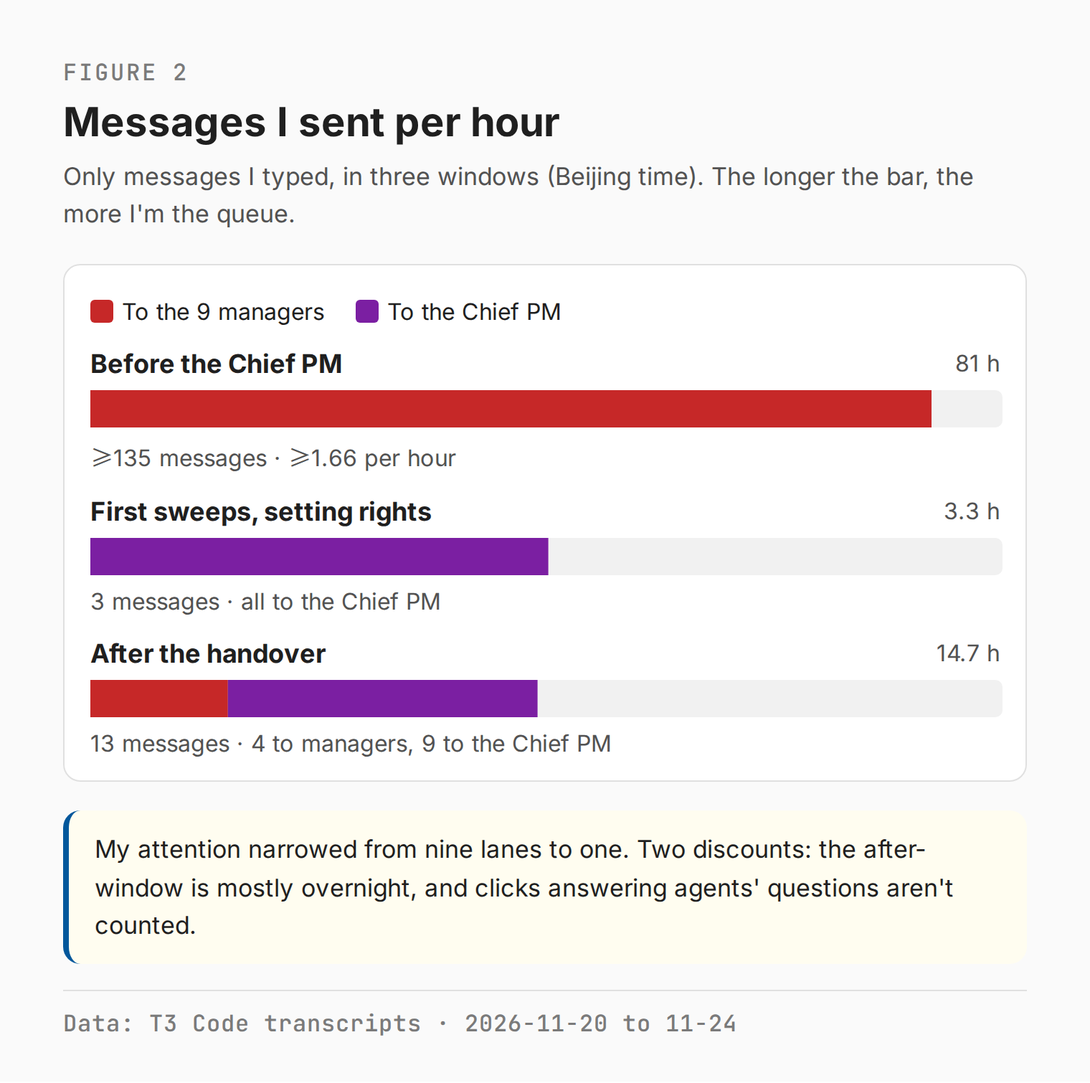
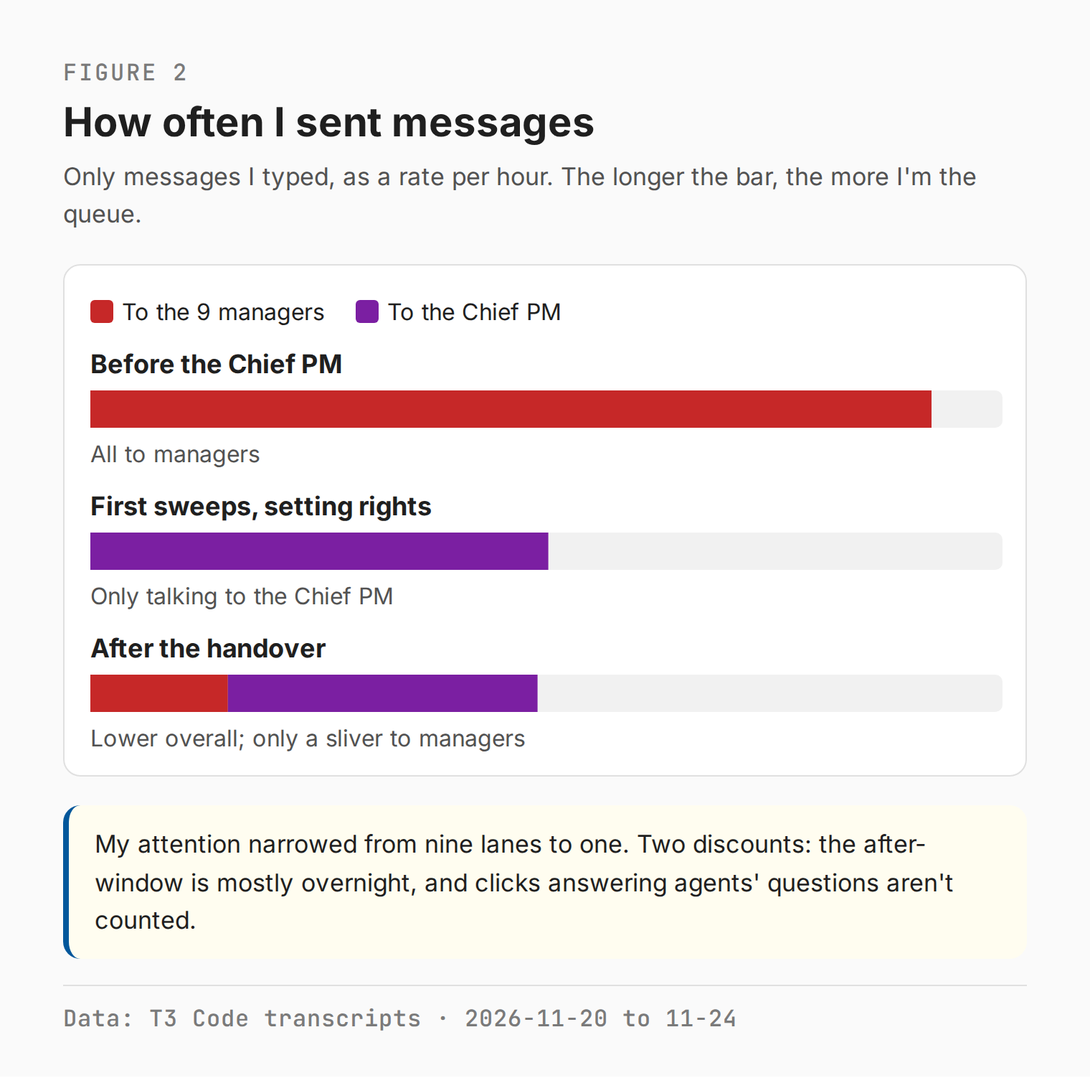
Show owner-message trend only, drop absolute counts

diff --git a/drafts/2026-11-24-managing-managers-a-chief-pm-agent-and-the-coordination-tax/figures/figure-1-topology.zh.html b/drafts/2026-11-24-managing-managers-a-chief-pm-agent-and-the-coordination-tax/figures/figure-1-topology.zh.html
@@ -21,7 +21,7 @@ svg{display:block}
 <div class="figno">图 1</div><h1>从星形到两层：日常决策交给 Chief PM</h1>
 <div class="sub">同样 9 个经理，同样是 Opus 5.5。变的是谁站在中心。</div>
 <div class="panel"><h2 style="color:var(--red)">之前：9 条辐条都通向我</h2><svg width="636" height="330" viewBox="0 0 636 330"><line x1="318.0" y1="165.0" x2="318.0" y2="37.0" stroke="#c62828" stroke-width="2.5"/><line x1="318.0" y1="165.0" x2="400.3" y2="66.9" stroke="#c62828" stroke-width="2.5"/><line x1="318.0" y1="165.0" x2="444.1" y2="142.8" stroke="#c62828" stroke-width="2.5"/><line x1="318.0" y1="165.0" x2="428.9" y2="229.0" stroke="#c62828" stroke-width="2.5"/><line x1="318.0" y1="165.0" x2="361.8" y2="285.3" stroke="#c62828" stroke-width="2.5"/><line x1="318.0" y1="165.0" x2="274.2" y2="285.3" stroke="#c62828" stroke-width="2.5"/><line x1="318.0" y1="165.0" x2="207.1" y2="229.0" stroke="#c62828" stroke-width="2.5"/><line x1="318.0" y1="165.0" x2="191.9" y2="142.8" stroke="#c62828" stroke-width="2.5"/><line x1="318.0" y1="165.0" x2="235.7" y2="66.9" stroke="#c62828" stroke-width="2.5"/><rect x="280.0" y="20.0" width="76" height="34" rx="8" fill="#e1f5fe" stroke="#01579b" stroke-width="1.5"/><text x="318.0" y="43.0" text-anchor="middle" font-size="16" fill="#01579b">博客</text><rect x="362.3" y="49.9" width="76" height="34" rx="8" fill="#e1f5fe" stroke="#01579b" stroke-width="1.5"/><text x="400.3" y="72.9" text-anchor="middle" font-size="16" fill="#01579b">AWB</text><rect x="406.1" y="125.8" width="76" height="34" rx="8" fill="#e1f5fe" stroke="#01579b" stroke-width="1.5"/><text x="444.1" y="148.8" text-anchor="middle" font-size="16" fill="#01579b">Semon</text><rect x="390.9" y="212.0" width="76" height="34" rx="8" fill="#e1f5fe" stroke="#01579b" stroke-width="1.5"/><text x="428.9" y="235.0" text-anchor="middle" font-size="16" fill="#01579b">Ostrom</text><rect x="323.8" y="268.3" width="76" height="34" rx="8" fill="#e1f5fe" stroke="#01579b" stroke-width="1.5"/><text x="361.8" y="291.3" text-anchor="middle" font-size="16" fill="#01579b">Tolmap</text><rect x="236.2" y="268.3" width="76" height="34" rx="8" fill="#e1f5fe" stroke="#01579b" stroke-width="1.5"/><text x="274.2" y="291.3" text-anchor="middle" font-size="16" fill="#01579b">Eval</text><rect x="169.1" y="212.0" width="76" height="34" rx="8" fill="#e1f5fe" stroke="#01579b" stroke-width="1.5"/><text x="207.1" y="235.0" text-anchor="middle" font-size="16" fill="#01579b">Infra</text><rect x="153.9" y="125.8" width="76" height="34" rx="8" fill="#e1f5fe" stroke="#01579b" stroke-width="1.5"/><text x="191.9" y="148.8" text-anchor="middle" font-size="16" fill="#01579b">Duhem</text><rect x="197.7" y="49.9" width="76" height="34" rx="8" fill="#e1f5fe" stroke="#01579b" stroke-width="1.5"/><text x="235.7" y="72.9" text-anchor="middle" font-size="16" fill="#01579b">Kirzner</text><circle cx="318.0" cy="165.0" r="38" fill="#ffebee" stroke="#c62828" stroke-width="2.5"/><text x="318.0" y="172.0" text-anchor="middle" font-size="19" font-weight="700" fill="#c62828">我</text></svg>
-<div class="note">11 月 20 日至 23 日 17:20，81 小时里我给经理们发了<b>至少 135 条</b>消息。</div></div>
+<div class="note">每一个要拍板的事，都等我回消息。</div></div>
 <div class="panel"><h2 style="color:var(--purple)">之后：我只管 S5，日常由 Chief PM 拍板</h2><svg width="636" height="330" viewBox="0 0 636 330"><rect x="98.0" y="6" width="440" height="56" rx="10" fill="#ffebee" stroke="#c62828" stroke-width="2"/><text x="318.0" y="30" text-anchor="middle" font-size="19" font-weight="700" fill="#c62828">我 · S5</text><text x="318.0" y="53" text-anchor="middle" font-size="16" fill="#525252">花钱、对外发声、凭据、产品方向</text><line x1="318.0" y1="62" x2="318.0" y2="98" stroke="#c62828" stroke-width="2.5"/><rect x="98.0" y="98" width="440" height="56" rx="10" fill="#f3e5f5" stroke="#7b1fa2" stroke-width="2"/><text x="318.0" y="122" text-anchor="middle" font-size="19" font-weight="700" fill="#7b1fa2">Chief PM · S3</text><text x="318.0" y="145" text-anchor="middle" font-size="16" fill="#525252">合并、发版、技术选型、巡检</text><line x1="318.0" y1="154" x2="35.3" y2="200" stroke="#7b1fa2" stroke-width="1.5"/><rect x="3.0" y="200" width="64.7" height="34" rx="7" fill="#e1f5fe" stroke="#01579b" stroke-width="1.5"/><text x="35.3" y="223" text-anchor="middle" font-size="16" fill="#01579b">博客</text><line x1="35.3" y1="234" x2="17.3" y2="262" stroke="#9e9e9e" stroke-width="1"/><circle cx="17.3" cy="268" r="6" fill="#e8f5e9" stroke="#2e7d32" stroke-width="1.2"/><line x1="35.3" y1="234" x2="35.3" y2="262" stroke="#9e9e9e" stroke-width="1"/><circle cx="35.3" cy="268" r="6" fill="#e8f5e9" stroke="#2e7d32" stroke-width="1.2"/><line x1="35.3" y1="234" x2="53.3" y2="262" stroke="#9e9e9e" stroke-width="1"/><circle cx="53.3" cy="268" r="6" fill="#e8f5e9" stroke="#2e7d32" stroke-width="1.2"/><line x1="318.0" y1="154" x2="106.0" y2="200" stroke="#7b1fa2" stroke-width="1.5"/><rect x="73.7" y="200" width="64.7" height="34" rx="7" fill="#e1f5fe" stroke="#01579b" stroke-width="1.5"/><text x="106.0" y="223" text-anchor="middle" font-size="16" fill="#01579b">AWB</text><line x1="106.0" y1="234" x2="88.0" y2="262" stroke="#9e9e9e" stroke-width="1"/><circle cx="88.0" cy="268" r="6" fill="#e8f5e9" stroke="#2e7d32" stroke-width="1.2"/><line x1="106.0" y1="234" x2="106.0" y2="262" stroke="#9e9e9e" stroke-width="1"/><circle cx="106.0" cy="268" r="6" fill="#e8f5e9" stroke="#2e7d32" stroke-width="1.2"/><line x1="106.0" y1="234" x2="124.0" y2="262" stroke="#9e9e9e" stroke-width="1"/><circle cx="124.0" cy="268" r="6" fill="#e8f5e9" stroke="#2e7d32" stroke-width="1.2"/><line x1="318.0" y1="154" x2="176.7" y2="200" stroke="#7b1fa2" stroke-width="1.5"/><rect x="144.3" y="200" width="64.7" height="34" rx="7" fill="#e1f5fe" stroke="#01579b" stroke-width="1.5"/><text x="176.7" y="223" text-anchor="middle" font-size="16" fill="#01579b">Semon</text><line x1="176.7" y1="234" x2="158.7" y2="262" stroke="#9e9e9e" stroke-width="1"/><circle cx="158.7" cy="268" r="6" fill="#e8f5e9" stroke="#2e7d32" stroke-width="1.2"/><line x1="176.7" y1="234" x2="176.7" y2="262" stroke="#9e9e9e" stroke-width="1"/><circle cx="176.7" cy="268" r="6" fill="#e8f5e9" stroke="#2e7d32" stroke-width="1.2"/><line x1="176.7" y1="234" x2="194.7" y2="262" stroke="#9e9e9e" stroke-width="1"/><circle cx="194.7" cy="268" r="6" fill="#e8f5e9" stroke="#2e7d32" stroke-width="1.2"/><line x1="318.0" y1="154" x2="247.3" y2="200" stroke="#7b1fa2" stroke-width="1.5"/><rect x="215.0" y="200" width="64.7" height="34" rx="7" fill="#e1f5fe" stroke="#01579b" stroke-width="1.5"/><text x="247.3" y="223" text-anchor="middle" font-size="16" fill="#01579b">Ostrom</text><line x1="247.3" y1="234" x2="229.3" y2="262" stroke="#9e9e9e" stroke-width="1"/><circle cx="229.3" cy="268" r="6" fill="#e8f5e9" stroke="#2e7d32" stroke-width="1.2"/><line x1="247.3" y1="234" x2="247.3" y2="262" stroke="#9e9e9e" stroke-width="1"/><circle cx="247.3" cy="268" r="6" fill="#e8f5e9" stroke="#2e7d32" stroke-width="1.2"/><line x1="247.3" y1="234" x2="265.3" y2="262" stroke="#9e9e9e" stroke-width="1"/><circle cx="265.3" cy="268" r="6" fill="#e8f5e9" stroke="#2e7d32" stroke-width="1.2"/><line x1="318.0" y1="154" x2="318.0" y2="200" stroke="#7b1fa2" stroke-width="1.5"/><rect x="285.7" y="200" width="64.7" height="34" rx="7" fill="#e1f5fe" stroke="#01579b" stroke-width="1.5"/><text x="318.0" y="223" text-anchor="middle" font-size="16" fill="#01579b">Tolmap</text><line x1="318.0" y1="234" x2="300.0" y2="262" stroke="#9e9e9e" stroke-width="1"/><circle cx="300.0" cy="268" r="6" fill="#e8f5e9" stroke="#2e7d32" stroke-width="1.2"/><line x1="318.0" y1="234" x2="318.0" y2="262" stroke="#9e9e9e" stroke-width="1"/><circle cx="318.0" cy="268" r="6" fill="#e8f5e9" stroke="#2e7d32" stroke-width="1.2"/><line x1="318.0" y1="234" x2="336.0" y2="262" stroke="#9e9e9e" stroke-width="1"/><circle cx="336.0" cy="268" r="6" fill="#e8f5e9" stroke="#2e7d32" stroke-width="1.2"/><line x1="318.0" y1="154" x2="388.7" y2="200" stroke="#7b1fa2" stroke-width="1.5"/><rect x="356.3" y="200" width="64.7" height="34" rx="7" fill="#e1f5fe" stroke="#01579b" stroke-width="1.5"/><text x="388.7" y="223" text-anchor="middle" font-size="16" fill="#01579b">Eval</text><line x1="388.7" y1="234" x2="370.7" y2="262" stroke="#9e9e9e" stroke-width="1"/><circle cx="370.7" cy="268" r="6" fill="#e8f5e9" stroke="#2e7d32" stroke-width="1.2"/><line x1="388.7" y1="234" x2="388.7" y2="262" stroke="#9e9e9e" stroke-width="1"/><circle cx="388.7" cy="268" r="6" fill="#e8f5e9" stroke="#2e7d32" stroke-width="1.2"/><line x1="388.7" y1="234" x2="406.7" y2="262" stroke="#9e9e9e" stroke-width="1"/><circle cx="406.7" cy="268" r="6" fill="#e8f5e9" stroke="#2e7d32" stroke-width="1.2"/><line x1="318.0" y1="154" x2="459.3" y2="200" stroke="#7b1fa2" stroke-width="1.5"/><rect x="427.0" y="200" width="64.7" height="34" rx="7" fill="#e1f5fe" stroke="#01579b" stroke-width="1.5"/><text x="459.3" y="223" text-anchor="middle" font-size="16" fill="#01579b">Infra</text><line x1="459.3" y1="234" x2="441.3" y2="262" stroke="#9e9e9e" stroke-width="1"/><circle cx="441.3" cy="268" r="6" fill="#e8f5e9" stroke="#2e7d32" stroke-width="1.2"/><line x1="459.3" y1="234" x2="459.3" y2="262" stroke="#9e9e9e" stroke-width="1"/><circle cx="459.3" cy="268" r="6" fill="#e8f5e9" stroke="#2e7d32" stroke-width="1.2"/><line x1="459.3" y1="234" x2="477.3" y2="262" stroke="#9e9e9e" stroke-width="1"/><circle cx="477.3" cy="268" r="6" fill="#e8f5e9" stroke="#2e7d32" stroke-width="1.2"/><line x1="318.0" y1="154" x2="530.0" y2="200" stroke="#7b1fa2" stroke-width="1.5"/><rect x="497.7" y="200" width="64.7" height="34" rx="7" fill="#e1f5fe" stroke="#01579b" stroke-width="1.5"/><text x="530.0" y="223" text-anchor="middle" font-size="16" fill="#01579b">Duhem</text><line x1="530.0" y1="234" x2="512.0" y2="262" stroke="#9e9e9e" stroke-width="1"/><circle cx="512.0" cy="268" r="6" fill="#e8f5e9" stroke="#2e7d32" stroke-width="1.2"/><line x1="530.0" y1="234" x2="530.0" y2="262" stroke="#9e9e9e" stroke-width="1"/><circle cx="530.0" cy="268" r="6" fill="#e8f5e9" stroke="#2e7d32" stroke-width="1.2"/><line x1="530.0" y1="234" x2="548.0" y2="262" stroke="#9e9e9e" stroke-width="1"/><circle cx="548.0" cy="268" r="6" fill="#e8f5e9" stroke="#2e7d32" stroke-width="1.2"/><line x1="318.0" y1="154" x2="600.7" y2="200" stroke="#7b1fa2" stroke-width="1.5"/><rect x="568.3" y="200" width="64.7" height="34" rx="7" fill="#e1f5fe" stroke="#01579b" stroke-width="1.5"/><text x="600.7" y="223" text-anchor="middle" font-size="16" fill="#01579b">Kirzner</text><line x1="600.7" y1="234" x2="582.7" y2="262" stroke="#9e9e9e" stroke-width="1"/><circle cx="582.7" cy="268" r="6" fill="#e8f5e9" stroke="#2e7d32" stroke-width="1.2"/><line x1="600.7" y1="234" x2="600.7" y2="262" stroke="#9e9e9e" stroke-width="1"/><circle cx="600.7" cy="268" r="6" fill="#e8f5e9" stroke="#2e7d32" stroke-width="1.2"/><line x1="600.7" y1="234" x2="618.7" y2="262" stroke="#9e9e9e" stroke-width="1"/><circle cx="618.7" cy="268" r="6" fill="#e8f5e9" stroke="#2e7d32" stroke-width="1.2"/><text x="318.0" y="306" text-anchor="middle" font-size="16" fill="#2e7d32">9 个经理（S1），下面挂着约 300 个 Worker 对话</text></svg>
-<div class="note">交接后的 14.7 小时里，我给 9 个经理发了 <b>4 条</b>，给 Chief PM 发了 <b>9 条</b>。</div></div>
+<div class="note">我直接找经理的次数几乎归零，剩下的消息大多发给 Chief PM。</div></div>
 <div class="foot">S1 / S3 / S5：Stafford Beer 可生存系统模型的层级 · 北京时间</div></div></body></html>

diff --git a/drafts/2026-11-24-managing-managers-a-chief-pm-agent-and-the-coordination-tax/figures/figure-1-topology.en.html b/drafts/2026-11-24-managing-managers-a-chief-pm-agent-and-the-coordination-tax/figures/figure-1-topology.en.html
@@ -21,7 +21,7 @@ svg{display:block}
 <div class="figno">FIGURE 1</div><h1>From a star to two layers</h1>
 <div class="sub">Same nine managers, same Opus 5.5. What changed is who sits at the center.</div>
 <div class="panel"><h2 style="color:var(--red)">Before: all nine spokes run to me</h2><svg width="636" height="330" viewBox="0 0 636 330"><line x1="318.0" y1="165.0" x2="318.0" y2="37.0" stroke="#c62828" stroke-width="2.5"/><line x1="318.0" y1="165.0" x2="400.3" y2="66.9" stroke="#c62828" stroke-width="2.5"/><line x1="318.0" y1="165.0" x2="444.1" y2="142.8" stroke="#c62828" stroke-width="2.5"/><line x1="318.0" y1="165.0" x2="428.9" y2="229.0" stroke="#c62828" stroke-width="2.5"/><line x1="318.0" y1="165.0" x2="361.8" y2="285.3" stroke="#c62828" stroke-width="2.5"/><line x1="318.0" y1="165.0" x2="274.2" y2="285.3" stroke="#c62828" stroke-width="2.5"/><line x1="318.0" y1="165.0" x2="207.1" y2="229.0" stroke="#c62828" stroke-width="2.5"/><line x1="318.0" y1="165.0" x2="191.9" y2="142.8" stroke="#c62828" stroke-width="2.5"/><line x1="318.0" y1="165.0" x2="235.7" y2="66.9" stroke="#c62828" stroke-width="2.5"/><rect x="280.0" y="20.0" width="76" height="34" rx="8" fill="#e1f5fe" stroke="#01579b" stroke-width="1.5"/><text x="318.0" y="43.0" text-anchor="middle" font-size="16" fill="#01579b">Blog</text><rect x="362.3" y="49.9" width="76" height="34" rx="8" fill="#e1f5fe" stroke="#01579b" stroke-width="1.5"/><text x="400.3" y="72.9" text-anchor="middle" font-size="16" fill="#01579b">AWB</text><rect x="406.1" y="125.8" width="76" height="34" rx="8" fill="#e1f5fe" stroke="#01579b" stroke-width="1.5"/><text x="444.1" y="148.8" text-anchor="middle" font-size="16" fill="#01579b">Semon</text><rect x="390.9" y="212.0" width="76" height="34" rx="8" fill="#e1f5fe" stroke="#01579b" stroke-width="1.5"/><text x="428.9" y="235.0" text-anchor="middle" font-size="16" fill="#01579b">Ostrom</text><rect x="323.8" y="268.3" width="76" height="34" rx="8" fill="#e1f5fe" stroke="#01579b" stroke-width="1.5"/><text x="361.8" y="291.3" text-anchor="middle" font-size="16" fill="#01579b">Tolmap</text><rect x="236.2" y="268.3" width="76" height="34" rx="8" fill="#e1f5fe" stroke="#01579b" stroke-width="1.5"/><text x="274.2" y="291.3" text-anchor="middle" font-size="16" fill="#01579b">Eval</text><rect x="169.1" y="212.0" width="76" height="34" rx="8" fill="#e1f5fe" stroke="#01579b" stroke-width="1.5"/><text x="207.1" y="235.0" text-anchor="middle" font-size="16" fill="#01579b">Infra</text><rect x="153.9" y="125.8" width="76" height="34" rx="8" fill="#e1f5fe" stroke="#01579b" stroke-width="1.5"/><text x="191.9" y="148.8" text-anchor="middle" font-size="16" fill="#01579b">Duhem</text><rect x="197.7" y="49.9" width="76" height="34" rx="8" fill="#e1f5fe" stroke="#01579b" stroke-width="1.5"/><text x="235.7" y="72.9" text-anchor="middle" font-size="16" fill="#01579b">Kirzner</text><circle cx="318.0" cy="165.0" r="38" fill="#ffebee" stroke="#c62828" stroke-width="2.5"/><text x="318.0" y="172.0" text-anchor="middle" font-size="19" font-weight="700" fill="#c62828">Me</text></svg>
-<div class="note">20 Nov to 23 Nov 17:20: I sent the managers <b>at least 135</b> messages in 81 hours.</div></div>
+<div class="note">Every decision waited for my reply.</div></div>
 <div class="panel"><h2 style="color:var(--purple)">After: I keep S5, the Chief PM makes routine calls</h2><svg width="636" height="330" viewBox="0 0 636 330"><rect x="98.0" y="6" width="440" height="56" rx="10" fill="#ffebee" stroke="#c62828" stroke-width="2"/><text x="318.0" y="30" text-anchor="middle" font-size="19" font-weight="700" fill="#c62828">Me · S5</text><text x="318.0" y="53" text-anchor="middle" font-size="16" fill="#525252">Spending, public posts, credentials, direction</text><line x1="318.0" y1="62" x2="318.0" y2="98" stroke="#c62828" stroke-width="2.5"/><rect x="98.0" y="98" width="440" height="56" rx="10" fill="#f3e5f5" stroke="#7b1fa2" stroke-width="2"/><text x="318.0" y="122" text-anchor="middle" font-size="19" font-weight="700" fill="#7b1fa2">Chief PM · S3</text><text x="318.0" y="145" text-anchor="middle" font-size="16" fill="#525252">Merges, releases, tech choices, check-ins</text><line x1="318.0" y1="154" x2="35.3" y2="200" stroke="#7b1fa2" stroke-width="1.5"/><rect x="3.0" y="200" width="64.7" height="34" rx="7" fill="#e1f5fe" stroke="#01579b" stroke-width="1.5"/><text x="35.3" y="223" text-anchor="middle" font-size="16" fill="#01579b">Blog</text><line x1="35.3" y1="234" x2="17.3" y2="262" stroke="#9e9e9e" stroke-width="1"/><circle cx="17.3" cy="268" r="6" fill="#e8f5e9" stroke="#2e7d32" stroke-width="1.2"/><line x1="35.3" y1="234" x2="35.3" y2="262" stroke="#9e9e9e" stroke-width="1"/><circle cx="35.3" cy="268" r="6" fill="#e8f5e9" stroke="#2e7d32" stroke-width="1.2"/><line x1="35.3" y1="234" x2="53.3" y2="262" stroke="#9e9e9e" stroke-width="1"/><circle cx="53.3" cy="268" r="6" fill="#e8f5e9" stroke="#2e7d32" stroke-width="1.2"/><line x1="318.0" y1="154" x2="106.0" y2="200" stroke="#7b1fa2" stroke-width="1.5"/><rect x="73.7" y="200" width="64.7" height="34" rx="7" fill="#e1f5fe" stroke="#01579b" stroke-width="1.5"/><text x="106.0" y="223" text-anchor="middle" font-size="16" fill="#01579b">AWB</text><line x1="106.0" y1="234" x2="88.0" y2="262" stroke="#9e9e9e" stroke-width="1"/><circle cx="88.0" cy="268" r="6" fill="#e8f5e9" stroke="#2e7d32" stroke-width="1.2"/><line x1="106.0" y1="234" x2="106.0" y2="262" stroke="#9e9e9e" stroke-width="1"/><circle cx="106.0" cy="268" r="6" fill="#e8f5e9" stroke="#2e7d32" stroke-width="1.2"/><line x1="106.0" y1="234" x2="124.0" y2="262" stroke="#9e9e9e" stroke-width="1"/><circle cx="124.0" cy="268" r="6" fill="#e8f5e9" stroke="#2e7d32" stroke-width="1.2"/><line x1="318.0" y1="154" x2="176.7" y2="200" stroke="#7b1fa2" stroke-width="1.5"/><rect x="144.3" y="200" width="64.7" height="34" rx="7" fill="#e1f5fe" stroke="#01579b" stroke-width="1.5"/><text x="176.7" y="223" text-anchor="middle" font-size="16" fill="#01579b">Semon</text><line x1="176.7" y1="234" x2="158.7" y2="262" stroke="#9e9e9e" stroke-width="1"/><circle cx="158.7" cy="268" r="6" fill="#e8f5e9" stroke="#2e7d32" stroke-width="1.2"/><line x1="176.7" y1="234" x2="176.7" y2="262" stroke="#9e9e9e" stroke-width="1"/><circle cx="176.7" cy="268" r="6" fill="#e8f5e9" stroke="#2e7d32" stroke-width="1.2"/><line x1="176.7" y1="234" x2="194.7" y2="262" stroke="#9e9e9e" stroke-width="1"/><circle cx="194.7" cy="268" r="6" fill="#e8f5e9" stroke="#2e7d32" stroke-width="1.2"/><line x1="318.0" y1="154" x2="247.3" y2="200" stroke="#7b1fa2" stroke-width="1.5"/><rect x="215.0" y="200" width="64.7" height="34" rx="7" fill="#e1f5fe" stroke="#01579b" stroke-width="1.5"/><text x="247.3" y="223" text-anchor="middle" font-size="16" fill="#01579b">Ostrom</text><line x1="247.3" y1="234" x2="229.3" y2="262" stroke="#9e9e9e" stroke-width="1"/><circle cx="229.3" cy="268" r="6" fill="#e8f5e9" stroke="#2e7d32" stroke-width="1.2"/><line x1="247.3" y1="234" x2="247.3" y2="262" stroke="#9e9e9e" stroke-width="1"/><circle cx="247.3" cy="268" r="6" fill="#e8f5e9" stroke="#2e7d32" stroke-width="1.2"/><line x1="247.3" y1="234" x2="265.3" y2="262" stroke="#9e9e9e" stroke-width="1"/><circle cx="265.3" cy="268" r="6" fill="#e8f5e9" stroke="#2e7d32" stroke-width="1.2"/><line x1="318.0" y1="154" x2="318.0" y2="200" stroke="#7b1fa2" stroke-width="1.5"/><rect x="285.7" y="200" width="64.7" height="34" rx="7" fill="#e1f5fe" stroke="#01579b" stroke-width="1.5"/><text x="318.0" y="223" text-anchor="middle" font-size="16" fill="#01579b">Tolmap</text><line x1="318.0" y1="234" x2="300.0" y2="262" stroke="#9e9e9e" stroke-width="1"/><circle cx="300.0" cy="268" r="6" fill="#e8f5e9" stroke="#2e7d32" stroke-width="1.2"/><line x1="318.0" y1="234" x2="318.0" y2="262" stroke="#9e9e9e" stroke-width="1"/><circle cx="318.0" cy="268" r="6" fill="#e8f5e9" stroke="#2e7d32" stroke-width="1.2"/><line x1="318.0" y1="234" x2="336.0" y2="262" stroke="#9e9e9e" stroke-width="1"/><circle cx="336.0" cy="268" r="6" fill="#e8f5e9" stroke="#2e7d32" stroke-width="1.2"/><line x1="318.0" y1="154" x2="388.7" y2="200" stroke="#7b1fa2" stroke-width="1.5"/><rect x="356.3" y="200" width="64.7" height="34" rx="7" fill="#e1f5fe" stroke="#01579b" stroke-width="1.5"/><text x="388.7" y="223" text-anchor="middle" font-size="16" fill="#01579b">Eval</text><line x1="388.7" y1="234" x2="370.7" y2="262" stroke="#9e9e9e" stroke-width="1"/><circle cx="370.7" cy="268" r="6" fill="#e8f5e9" stroke="#2e7d32" stroke-width="1.2"/><line x1="388.7" y1="234" x2="388.7" y2="262" stroke="#9e9e9e" stroke-width="1"/><circle cx="388.7" cy="268" r="6" fill="#e8f5e9" stroke="#2e7d32" stroke-width="1.2"/><line x1="388.7" y1="234" x2="406.7" y2="262" stroke="#9e9e9e" stroke-width="1"/><circle cx="406.7" cy="268" r="6" fill="#e8f5e9" stroke="#2e7d32" stroke-width="1.2"/><line x1="318.0" y1="154" x2="459.3" y2="200" stroke="#7b1fa2" stroke-width="1.5"/><rect x="427.0" y="200" width="64.7" height="34" rx="7" fill="#e1f5fe" stroke="#01579b" stroke-width="1.5"/><text x="459.3" y="223" text-anchor="middle" font-size="16" fill="#01579b">Infra</text><line x1="459.3" y1="234" x2="441.3" y2="262" stroke="#9e9e9e" stroke-width="1"/><circle cx="441.3" cy="268" r="6" fill="#e8f5e9" stroke="#2e7d32" stroke-width="1.2"/><line x1="459.3" y1="234" x2="459.3" y2="262" stroke="#9e9e9e" stroke-width="1"/><circle cx="459.3" cy="268" r="6" fill="#e8f5e9" stroke="#2e7d32" stroke-width="1.2"/><line x1="459.3" y1="234" x2="477.3" y2="262" stroke="#9e9e9e" stroke-width="1"/><circle cx="477.3" cy="268" r="6" fill="#e8f5e9" stroke="#2e7d32" stroke-width="1.2"/><line x1="318.0" y1="154" x2="530.0" y2="200" stroke="#7b1fa2" stroke-width="1.5"/><rect x="497.7" y="200" width="64.7" height="34" rx="7" fill="#e1f5fe" stroke="#01579b" stroke-width="1.5"/><text x="530.0" y="223" text-anchor="middle" font-size="16" fill="#01579b">Duhem</text><line x1="530.0" y1="234" x2="512.0" y2="262" stroke="#9e9e9e" stroke-width="1"/><circle cx="512.0" cy="268" r="6" fill="#e8f5e9" stroke="#2e7d32" stroke-width="1.2"/><line x1="530.0" y1="234" x2="530.0" y2="262" stroke="#9e9e9e" stroke-width="1"/><circle cx="530.0" cy="268" r="6" fill="#e8f5e9" stroke="#2e7d32" stroke-width="1.2"/><line x1="530.0" y1="234" x2="548.0" y2="262" stroke="#9e9e9e" stroke-width="1"/><circle cx="548.0" cy="268" r="6" fill="#e8f5e9" stroke="#2e7d32" stroke-width="1.2"/><line x1="318.0" y1="154" x2="600.7" y2="200" stroke="#7b1fa2" stroke-width="1.5"/><rect x="568.3" y="200" width="64.7" height="34" rx="7" fill="#e1f5fe" stroke="#01579b" stroke-width="1.5"/><text x="600.7" y="223" text-anchor="middle" font-size="16" fill="#01579b">Kirzner</text><line x1="600.7" y1="234" x2="582.7" y2="262" stroke="#9e9e9e" stroke-width="1"/><circle cx="582.7" cy="268" r="6" fill="#e8f5e9" stroke="#2e7d32" stroke-width="1.2"/><line x1="600.7" y1="234" x2="600.7" y2="262" stroke="#9e9e9e" stroke-width="1"/><circle cx="600.7" cy="268" r="6" fill="#e8f5e9" stroke="#2e7d32" stroke-width="1.2"/><line x1="600.7" y1="234" x2="618.7" y2="262" stroke="#9e9e9e" stroke-width="1"/><circle cx="618.7" cy="268" r="6" fill="#e8f5e9" stroke="#2e7d32" stroke-width="1.2"/><text x="318.0" y="306" text-anchor="middle" font-size="16" fill="#2e7d32">9 managers (S1), with about 300 Worker threads below</text></svg>
-<div class="note">In the 14.7 hours after the handover: <b>4</b> messages to the managers, <b>9</b> to the Chief PM.</div></div>
+<div class="note">My direct messages to managers dropped to almost none; most of the rest went to the Chief PM.</div></div>
 <div class="foot">S1 / S3 / S5: levels of Beer's Viable System Model · Beijing time</div></div></body></html>

diff --git a/drafts/2026-11-24-managing-managers-a-chief-pm-agent-and-the-coordination-tax/figures/figure-2-touches.en.html b/drafts/2026-11-24-managing-managers-a-chief-pm-agent-and-the-coordination-tax/figures/figure-2-touches.en.html
@@ -20,18 +20,18 @@ svg{display:block}
 .rl span{color:var(--soft);font-size:16px}.rv{font-size:16px;color:var(--soft);margin-top:4px}
 .leg{display:flex;gap:22px;font-size:16px;margin-top:6px}.sw{display:inline-block;width:16px;height:16px;border-radius:3px;vertical-align:-2px;margin-right:6px}
 </style></head><body><div class="canvas">
-<div class="figno">FIGURE 2</div><h1>Messages I sent per hour</h1>
-<div class="sub">Only messages I typed, in three windows (Beijing time). The longer the bar, the more I'm the queue.</div>
+<div class="figno">FIGURE 2</div><h1>How often I sent messages</h1>
+<div class="sub">Only messages I typed, as a rate per hour. The longer the bar, the more I'm the queue.</div>
 <div class="panel"><div class="leg"><span><i class="sw" style="background:#c62828"></i>To the 9 managers</span><span><i class="sw" style="background:#7b1fa2"></i>To the Chief PM</span></div>
-<div class="row"><div class="rl"><b>Before the Chief PM</b><span>81 h</span></div>
+<div class="row"><div class="rl"><b>Before the Chief PM</b></div>
 <svg width="636" height="34" viewBox="0 0 636 34"><rect x="0" y="4" width="636" height="26" rx="5" fill="#f1f1f1"/>
 <rect x="0" y="4" width="586.5" height="26" fill="#c62828"/><rect x="586.5" y="4" width="0.0" height="26" fill="#7b1fa2"/></svg>
-<div class="rv">≥135 messages · ≥1.66 per hour</div></div><div class="row"><div class="rl"><b>First sweeps, setting rights</b><span>3.3 h</span></div>
+<div class="rv">All to managers</div></div><div class="row"><div class="rl"><b>First sweeps, setting rights</b></div>
 <svg width="636" height="34" viewBox="0 0 636 34"><rect x="0" y="4" width="636" height="26" rx="5" fill="#f1f1f1"/>
 <rect x="0" y="4" width="0.0" height="26" fill="#c62828"/><rect x="0.0" y="4" width="319.3" height="26" fill="#7b1fa2"/></svg>
-<div class="rv">3 messages · all to the Chief PM</div></div><div class="row"><div class="rl"><b>After the handover</b><span>14.7 h</span></div>
+<div class="rv">Only talking to the Chief PM</div></div><div class="row"><div class="rl"><b>After the handover</b></div>
 <svg width="636" height="34" viewBox="0 0 636 34"><rect x="0" y="4" width="636" height="26" rx="5" fill="#f1f1f1"/>
 <rect x="0" y="4" width="95.9" height="26" fill="#c62828"/><rect x="95.9" y="4" width="215.9" height="26" fill="#7b1fa2"/></svg>
-<div class="rv">13 messages · 4 to managers, 9 to the Chief PM</div></div></div>
+<div class="rv">Lower overall; only a sliver to managers</div></div></div>
 <div class="take">My attention narrowed from nine lanes to one. Two discounts: the after-window is mostly overnight, and clicks answering agents' questions aren't counted.</div>
 <div class="foot">Data: T3 Code transcripts · 2026-11-20 to 11-24</div></div></body></html>

diff --git a/drafts/2026-11-24-managing-managers-a-chief-pm-agent-and-the-coordination-tax/figures/figure-2-touches.zh.html b/drafts/2026-11-24-managing-managers-a-chief-pm-agent-and-the-coordination-tax/figures/figure-2-touches.zh.html
@@ -20,18 +20,18 @@ svg{display:block}
 .rl span{color:var(--soft);font-size:16px}.rv{font-size:16px;color:var(--soft);margin-top:4px}
 .leg{display:flex;gap:22px;font-size:16px;margin-top:6px}.sw{display:inline-block;width:16px;height:16px;border-radius:3px;vertical-align:-2px;margin-right:6px}
 </style></head><body><div class="canvas">
-<div class="figno">图 2</div><h1>我每小时发出的消息</h1>
-<div class="sub">只数我亲手打的字，按北京时间分三段。条越长，我越像队列。</div>
+<div class="figno">图 2</div><h1>我发消息的频率</h1>
+<div class="sub">只数我亲手打的字，按每小时折算。条越长，我越像队列。</div>
 <div class="panel"><div class="leg"><span><i class="sw" style="background:#c62828"></i>发给 9 个经理</span><span><i class="sw" style="background:#7b1fa2"></i>发给 Chief PM</span></div>
-<div class="row"><div class="rl"><b>上任前</b><span>81 小时</span></div>
+<div class="row"><div class="rl"><b>上任前</b></div>
 <svg width="636" height="34" viewBox="0 0 636 34"><rect x="0" y="4" width="636" height="26" rx="5" fill="#f1f1f1"/>
 <rect x="0" y="4" width="586.5" height="26" fill="#c62828"/><rect x="586.5" y="4" width="0.0" height="26" fill="#7b1fa2"/></svg>
-<div class="rv">≥135 条 · 每小时 ≥1.66 条</div></div><div class="row"><div class="rl"><b>巡检、划权责</b><span>3.3 小时</span></div>
+<div class="rv">全部发给经理</div></div><div class="row"><div class="rl"><b>巡检、划权责</b></div>
 <svg width="636" height="34" viewBox="0 0 636 34"><rect x="0" y="4" width="636" height="26" rx="5" fill="#f1f1f1"/>
 <rect x="0" y="4" width="0.0" height="26" fill="#c62828"/><rect x="0.0" y="4" width="319.3" height="26" fill="#7b1fa2"/></svg>
-<div class="rv">3 条 · 全部发给 Chief PM</div></div><div class="row"><div class="rl"><b>交接之后</b><span>14.7 小时</span></div>
+<div class="rv">只跟 Chief PM 说话</div></div><div class="row"><div class="rl"><b>交接之后</b></div>
 <svg width="636" height="34" viewBox="0 0 636 34"><rect x="0" y="4" width="636" height="26" rx="5" fill="#f1f1f1"/>
 <rect x="0" y="4" width="95.9" height="26" fill="#c62828"/><rect x="95.9" y="4" width="215.9" height="26" fill="#7b1fa2"/></svg>
-<div class="rv">13 条 · 4 条给经理，9 条给 Chief PM</div></div></div>
+<div class="rv">总量下降，发给经理的只剩一小截</div></div></div>
 <div class="take">注意力从 9 条线收到了 1 条线上。两点折扣：交接后的窗口大半在夜里；回答选择题的点击没有计入。</div>
 <div class="foot">数据：T3 Code 对话记录 · 2026-11-20 至 11-24</div></div></body></html>

diff --git a/drafts/2026-11-24-managing-managers-a-chief-pm-agent-and-the-coordination-tax/figures/gen_figures.py b/drafts/2026-11-24-managing-managers-a-chief-pm-agent-and-the-coordination-tax/figures/gen_figures.py
@@ -76,32 +76,32 @@ def fig1():
     body = f"""<div class="figno">图 1</div><h1>从星形到两层：日常决策交给 Chief PM</h1>
 <div class="sub">同样 9 个经理，同样是 Opus 5.5。变的是谁站在中心。</div>
 <div class="panel"><h2 style="color:var(--red)">之前：9 条辐条都通向我</h2>{star}
-<div class="note">11 月 20 日至 23 日 17:20，81 小时里我给经理们发了<b>至少 135 条</b>消息。</div></div>
+<div class="note">每一个要拍板的事，都等我回消息。</div></div>
 <div class="panel"><h2 style="color:var(--purple)">之后：我只管 S5，日常由 Chief PM 拍板</h2>{tree}
-<div class="note">交接后的 14.7 小时里，我给 9 个经理发了 <b>4 条</b>，给 Chief PM 发了 <b>9 条</b>。</div></div>
+<div class="note">我直接找经理的次数几乎归零，剩下的消息大多发给 Chief PM。</div></div>
 <div class="foot">S1 / S3 / S5：Stafford Beer 可生存系统模型的层级 · 北京时间</div>"""
     return HEAD.replace("{title}", "图 1").replace("{extra}", "") + body + TAIL
 
 
 def fig2():
     rows = [
-        ("上任前", "81 小时", 135 / 81.33, 0.0, "≥135 条 · 每小时 ≥1.66 条"),
-        ("巡检、划权责", "3.3 小时", 0.0, 3 / 3.32, "3 条 · 全部发给 Chief PM"),
-        ("交接之后", "14.7 小时", 4 / 14.73, 9 / 14.73, "13 条 · 4 条给经理，9 条给 Chief PM"),
+        ("上任前", "", 135 / 81.33, 0.0, "全部发给经理"),
+        ("巡检、划权责", "", 0.0, 3 / 3.32, "只跟 Chief PM 说话"),
+        ("交接之后", "", 4 / 14.73, 9 / 14.73, "总量下降，发给经理的只剩一小截"),
     ]
     w = INNER - 36; lab = 0; barw = w; scale = barw / 1.8
     s = []
     for name, dur, peers, cpm, txt in rows:
         a, b = peers * scale, cpm * scale
-        s.append(f"""<div class="row"><div class="rl"><b>{name}</b><span>{dur}</span></div>
+        s.append(f"""<div class="row"><div class="rl"><b>{name}</b></div>
 <svg width="{w}" height="34" viewBox="0 0 {w} 34"><rect x="0" y="4" width="{w}" height="26" rx="5" fill="#f1f1f1"/>
 <rect x="0" y="4" width="{a:.1f}" height="26" fill="#c62828"/><rect x="{a:.1f}" y="4" width="{b:.1f}" height="26" fill="#7b1fa2"/></svg>
 <div class="rv">{txt}</div></div>""")
     extra = """.row{margin-top:16px}.rl{display:flex;justify-content:space-between;font-size:18px;margin-bottom:4px}
 .rl span{color:var(--soft);font-size:16px}.rv{font-size:16px;color:var(--soft);margin-top:4px}
 .leg{display:flex;gap:22px;font-size:16px;margin-top:6px}.sw{display:inline-block;width:16px;height:16px;border-radius:3px;vertical-align:-2px;margin-right:6px}"""
-    body = f"""<div class="figno">图 2</div><h1>我每小时发出的消息</h1>
-<div class="sub">只数我亲手打的字，按北京时间分三段。条越长，我越像队列。</div>
+    body = f"""<div class="figno">图 2</div><h1>我发消息的频率</h1>
+<div class="sub">只数我亲手打的字，按每小时折算。条越长，我越像队列。</div>
 <div class="panel"><div class="leg"><span><i class="sw" style="background:#c62828"></i>发给 9 个经理</span><span><i class="sw" style="background:#7b1fa2"></i>发给 Chief PM</span></div>
 {''.join(s)}</div>
 <div class="take">注意力从 9 条线收到了 1 条线上。两点折扣：交接后的窗口大半在夜里；回答选择题的点击没有计入。</div>
@@ -151,23 +151,25 @@ EN = [
     ("同样 9 个经理，同样是 Opus 5.5。变的是谁站在中心。", "Same nine managers, same Opus 5.5. What changed is who sits at the center."),
     ("之前：9 条辐条都通向我", "Before: all nine spokes run to me"),
     (">博客<", ">Blog<"), (">我<", ">Me<"),
-    ("11 月 20 日至 23 日 17:20，81 小时里我给经理们发了<b>至少 135 条</b>消息。", "20 Nov to 23 Nov 17:20: I sent the managers <b>at least 135</b> messages in 81 hours."),
+    ("每一个要拍板的事，都等我回消息。", "Every decision waited for my reply."),
     ("之后：我只管 S5，日常由 Chief PM 拍板", "After: I keep S5, the Chief PM makes routine calls"),
     ("我 · S5", "Me · S5"),
     ("花钱、对外发声、凭据、产品方向", "Spending, public posts, credentials, direction"),
     ("合并、发版、技术选型、巡检", "Merges, releases, tech choices, check-ins"),
     ("9 个经理（S1），下面挂着约 300 个 Worker 对话", "9 managers (S1), with about 300 Worker threads below"),
-    ("交接后的 14.7 小时里，我给 9 个经理发了 <b>4 条</b>，给 Chief PM 发了 <b>9 条</b>。", "In the 14.7 hours after the handover: <b>4</b> messages to the managers, <b>9</b> to the Chief PM."),
+    ("我直接找经理的次数几乎归零，剩下的消息大多发给 Chief PM。", "My direct messages to managers dropped to almost none; most of the rest went to the Chief PM."),
     ("S1 / S3 / S5：Stafford Beer 可生存系统模型的层级 · 北京时间", "S1 / S3 / S5: levels of Beer's Viable System Model · Beijing time"),
-    ("我每小时发出的消息", "Messages I sent per hour"),
-    ("只数我亲手打的字，按北京时间分三段。条越长，我越像队列。", "Only messages I typed, in three windows (Beijing time). The longer the bar, the more I'm the queue."),
+    ("我发消息的频率", "How often I sent messages"),
+    ("只数我亲手打的字，按每小时折算。条越长，我越像队列。", "Only messages I typed, as a rate per hour. The longer the bar, the more I'm the queue."),
     ("发给 9 个经理", "To the 9 managers"), ("发给 Chief PM", "To the Chief PM"),
-    ("<b>上任前</b><span>81 小时", "<b>Before the Chief PM</b><span>81 h"),
-    ("<b>巡检、划权责</b><span>3.3 小时", "<b>First sweeps, setting rights</b><span>3.3 h"),
-    ("<b>交接之后</b><span>14.7 小时", "<b>After the handover</b><span>14.7 h"),
-    ("≥135 条 · 每小时 ≥1.66 条", "≥135 messages · ≥1.66 per hour"),
-    ("3 条 · 全部发给 Chief PM", "3 messages · all to the Chief PM"),
-    ("13 条 · 4 条给经理，9 条给 Chief PM", "13 messages · 4 to managers, 9 to the Chief PM"),
+    
+    
+    ("<b>上任前</b>", "<b>Before the Chief PM</b>"),
+    ("<b>巡检、划权责</b>", "<b>First sweeps, setting rights</b>"),
+    ("<b>交接之后</b>", "<b>After the handover</b>"),
+    ("全部发给经理", "All to managers"),
+    ("只跟 Chief PM 说话", "Only talking to the Chief PM"),
+    ("总量下降，发给经理的只剩一小截", "Lower overall; only a sliver to managers"),
     ("注意力从 9 条线收到了 1 条线上。两点折扣：交接后的窗口大半在夜里；回答选择题的点击没有计入。", "My attention narrowed from nine lanes to one. Two discounts: the after-window is mostly overnight, and clicks answering agents' questions aren't counted."),
     ("数据：T3 Code 对话记录 · 2026-11-20 至 11-24", "Data: T3 Code transcripts · 2026-11-20 to 11-24"),
     ("σ 接近零时，管理上限只看 κ", "With σ near zero, κ sets the ceiling"),

diff --git a/drafts/2026-11-24-managing-managers-a-chief-pm-agent-and-the-coordination-tax/progress.md b/drafts/2026-11-24-managing-managers-a-chief-pm-agent-and-the-coordination-tax/progress.md
@@ -154,3 +154,4 @@
 - Figures 1–3 (zh) rendered and embedded; touch table replaced by figure 2. EN figures pending EN draft. Render: CHROMIUM_PATH=~/.cache/ms-playwright/chromium_headless_shell-1243/chrome-headless-shell-linux64/chrome-headless-shell node figures/render.mjs
 - EN restated from final ZH; EN figures rendered. PR opened for preview review.
 - Figures 4 (sidebar) and 5 (CPM↔Semon) from owner's T3 iOS screenshots: top bar cropped, machine names blurred (sanitize.mjs), annotated; embedded in both locales.
+- Owner asked for trend only: removed absolute owner-message counts from text and figures 1–2 (raw tally kept in research.md).
